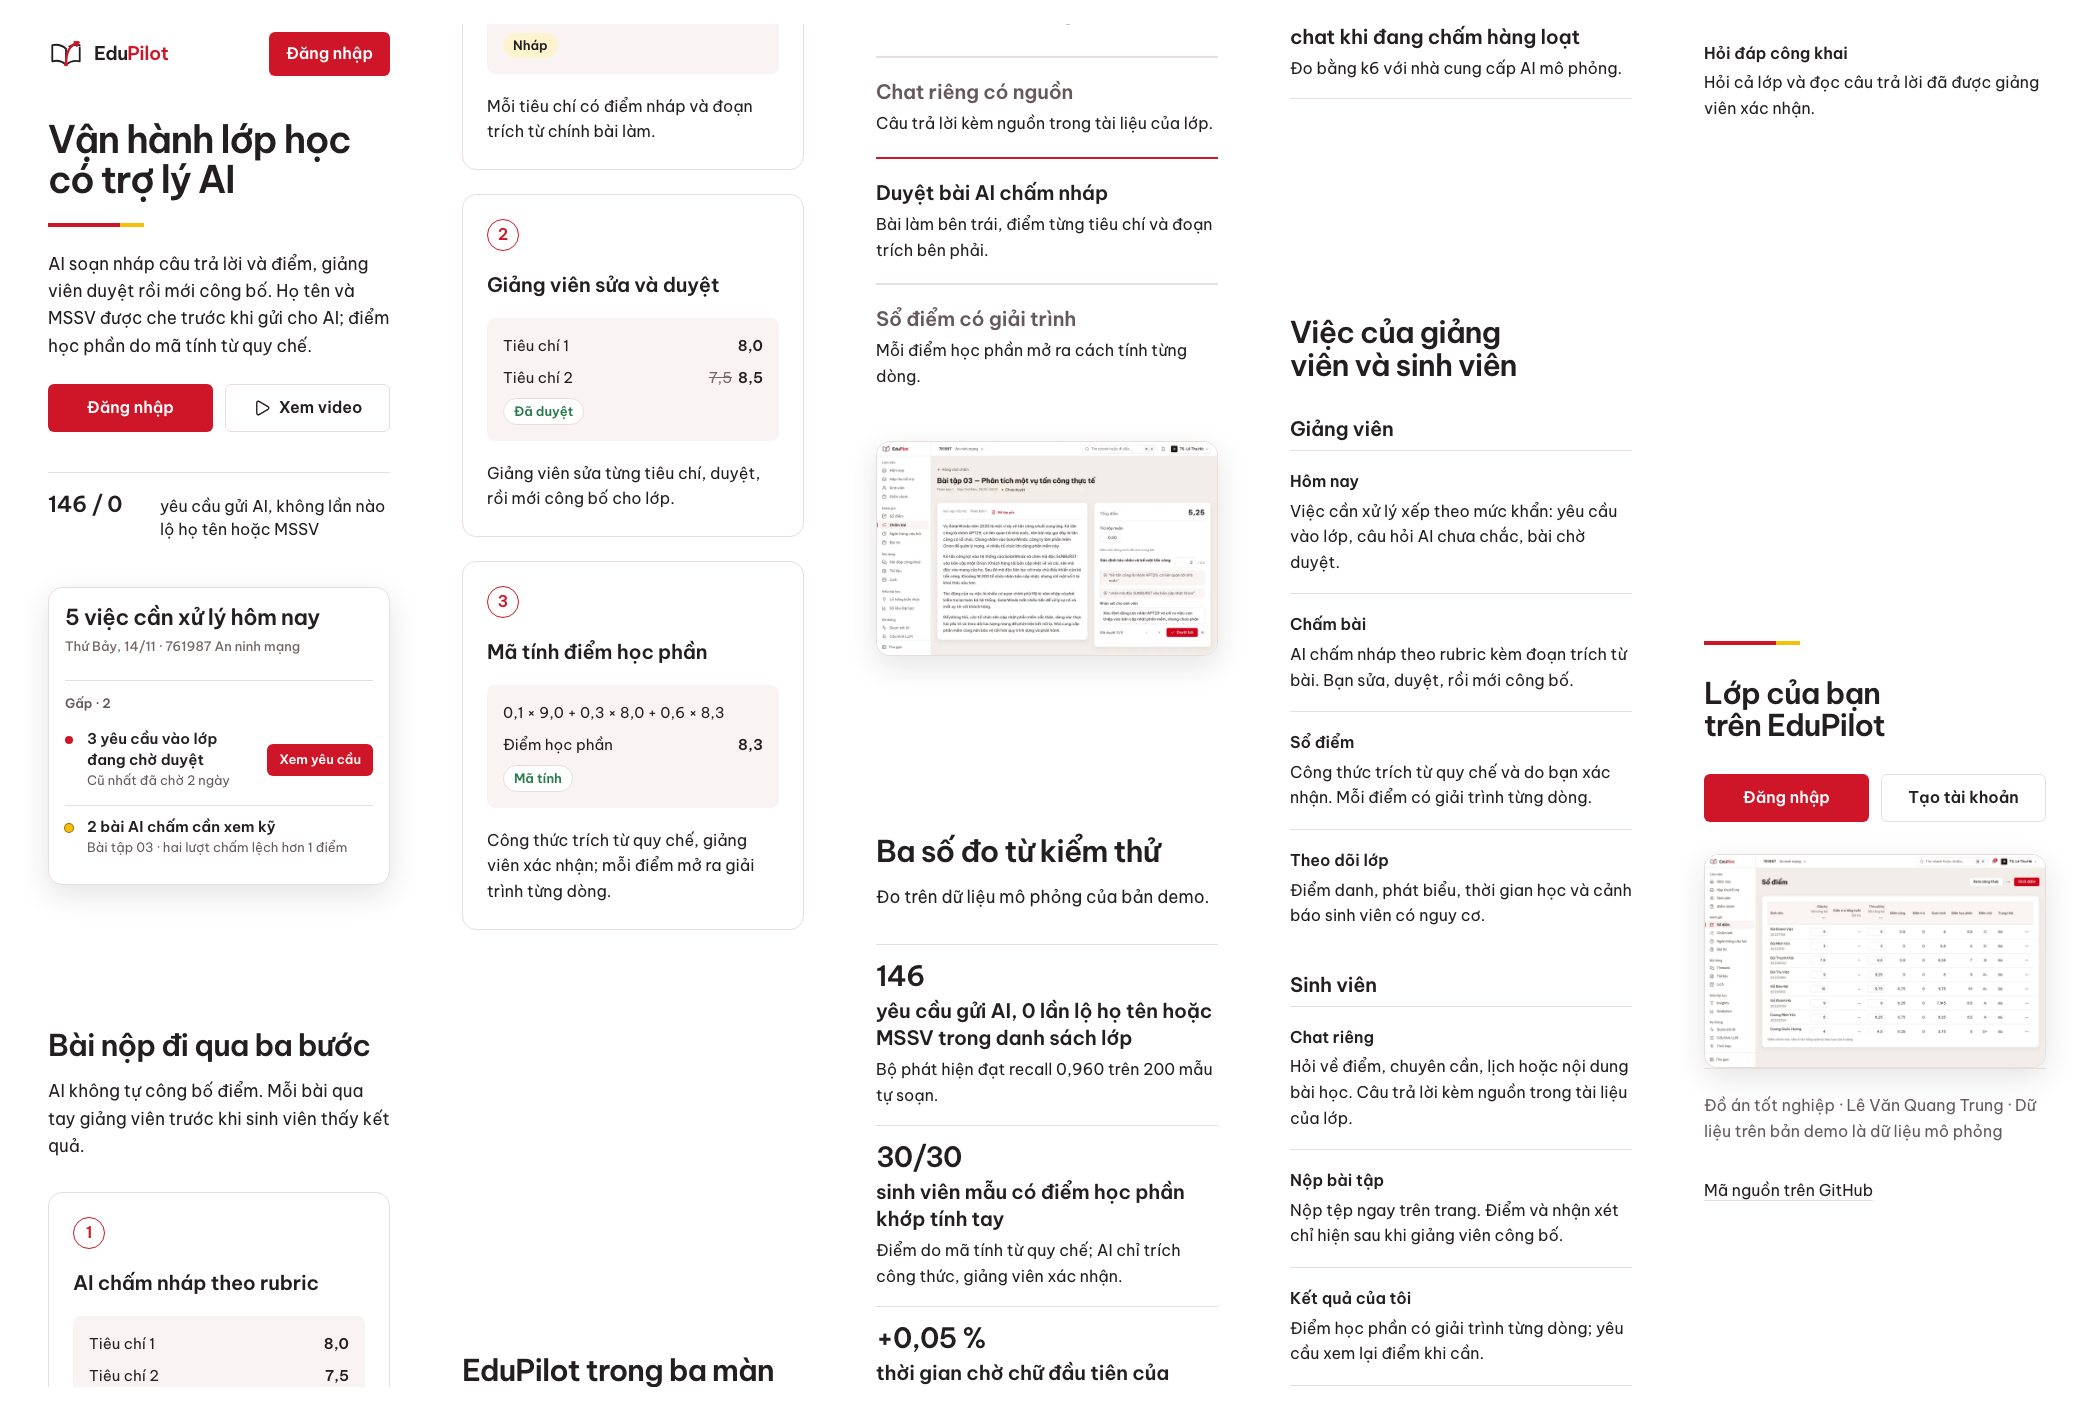
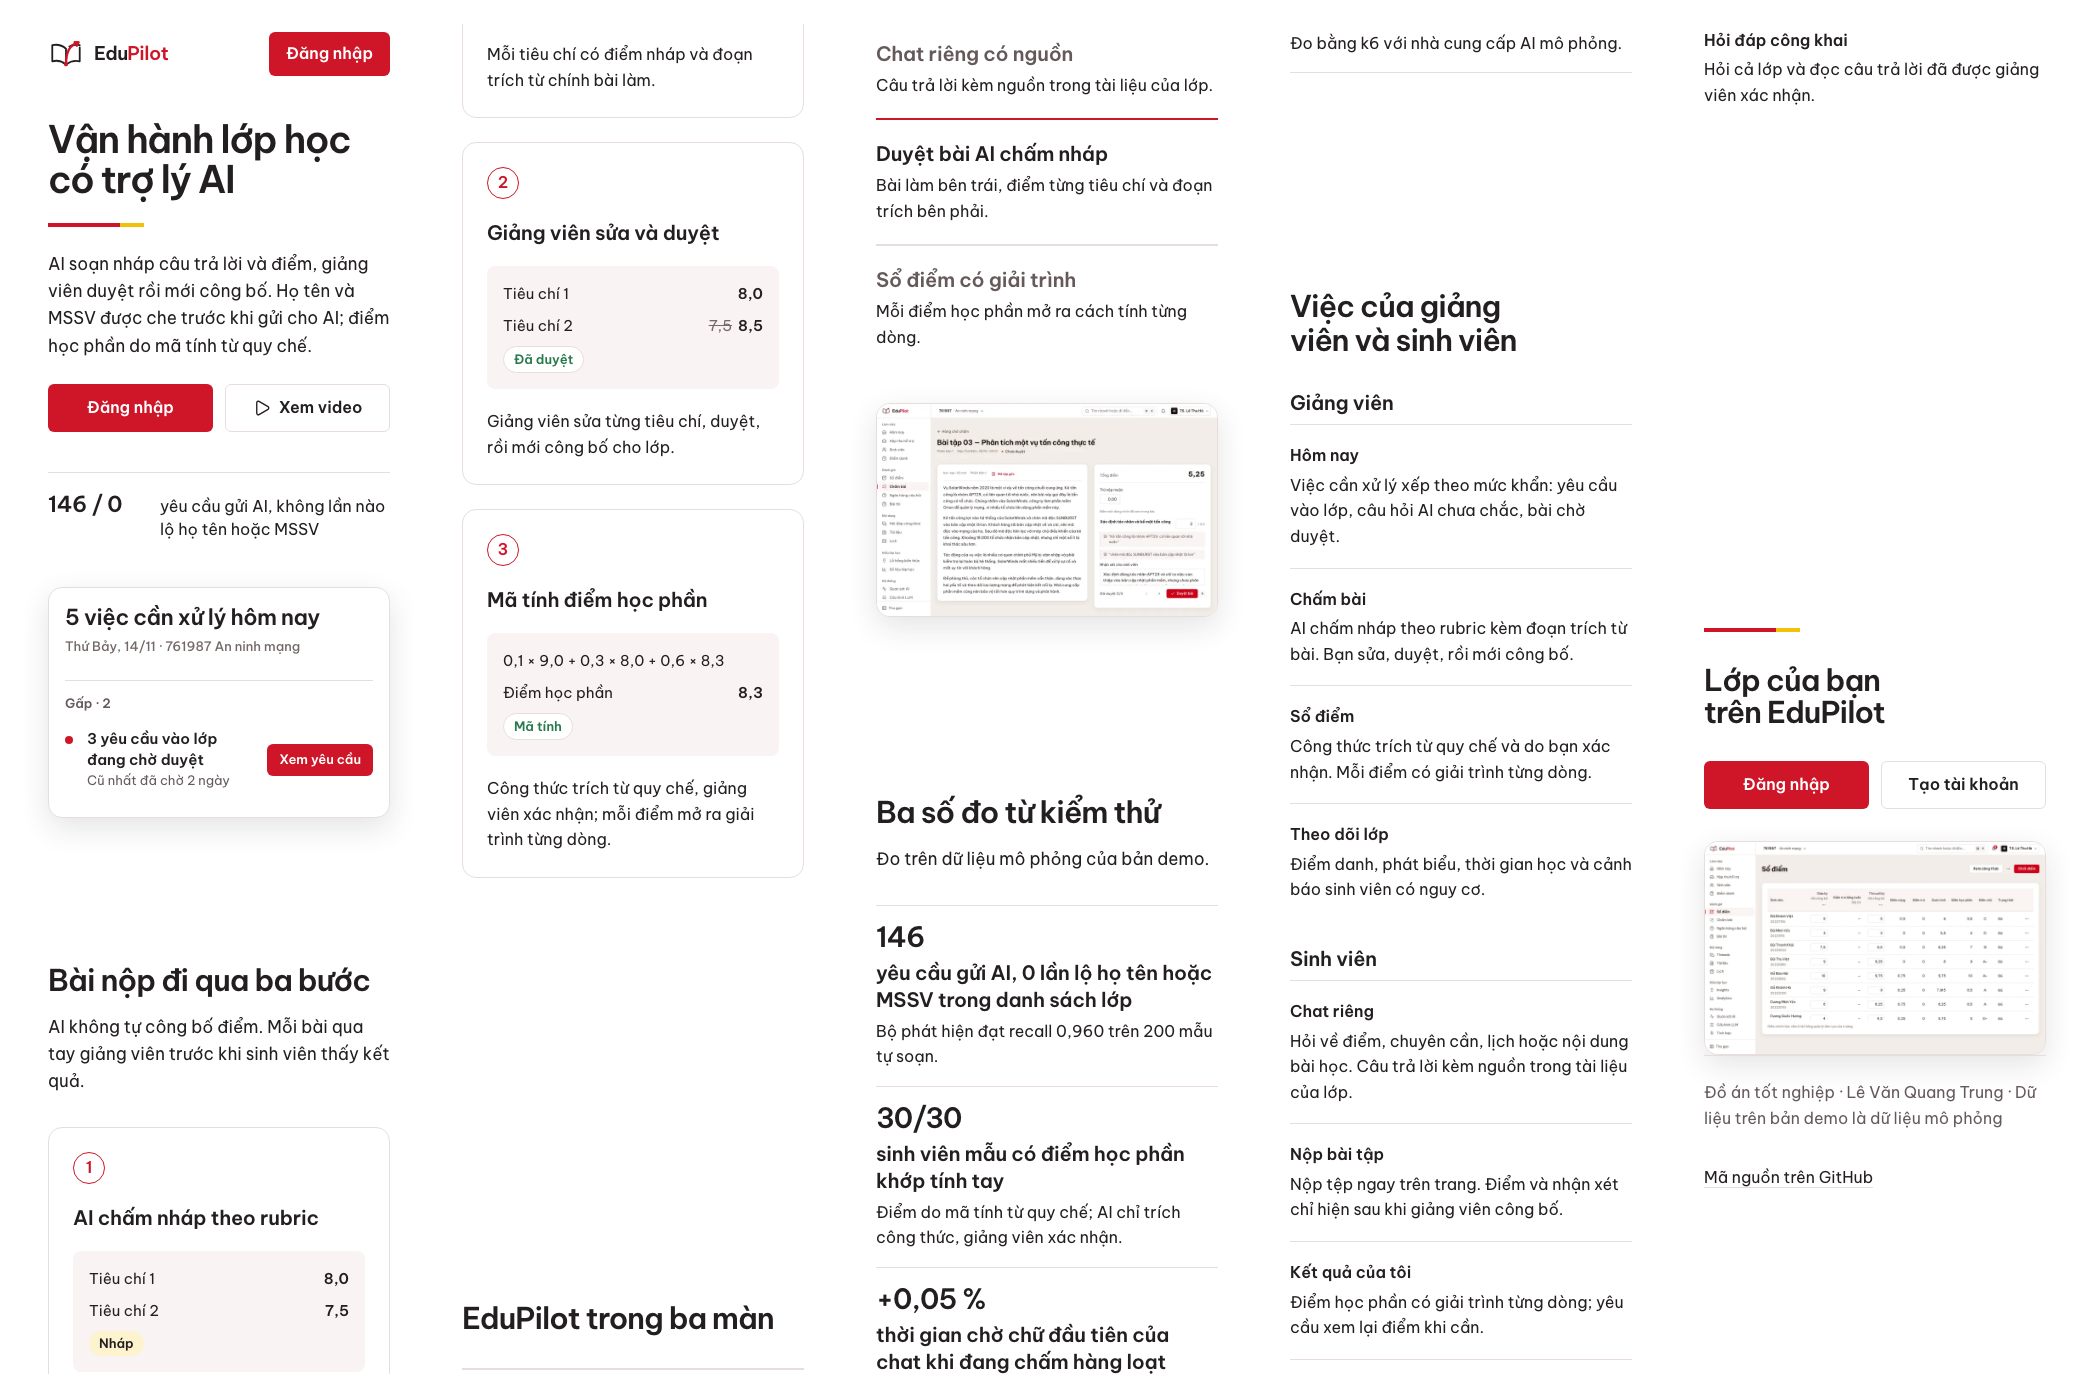
10.7 TL-1: trang giới thiệu — mẫu cuối + kết quả bộ kiểm (42 → 11 FAIL), mục 8.3

diff --git a/docs/sprints/10.7/mau/landing.html b/docs/sprints/10.7/mau/landing.html
@@ -37,7 +37,7 @@ body { margin: 0; font-size: 1rem; line-height: 1.6; }
 h1, h2, h3, p, dl, dd, ol, ul { margin: 0; padding: 0; } ol, ul { list-style: none; } img, svg { display: block; max-width: 100%; } a { color: inherit; text-decoration: none; } button { font: inherit; cursor: pointer; }
 .ic { width: 18px; height: 18px; fill: none; stroke: currentColor; stroke-width: 1.8; stroke-linecap: round; stroke-linejoin: round; flex: none; }
 :focus-visible { outline: 2px solid var(--ep-red); outline-offset: 3px; border-radius: var(--ep-radius-sm); }
-.skip { position: absolute; left: 8px; top: 8px; z-index: 50; padding: 8px 12px; background: var(--ep-ink); color: var(--ep-surface); border-radius: var(--ep-radius-sm); transform: translateY(-200%); }
+.skip { position: absolute; left: 0; top: 14px; z-index: 50; padding: 8px 12px; background: var(--ep-ink); color: var(--ep-surface); border-radius: var(--ep-radius-sm); transform: translateY(-300%); }
 .skip:focus { transform: none; }
 
 /* một khung chứa cho thanh trên, mọi mục và chân trang: mép 80 → 1360 ở 1440 */
@@ -84,7 +84,7 @@ main > section, footer.closing { height: 100svh; min-height: 820px; padding: var
 .chip { display: inline-flex; align-items: center; gap: 6px; min-height: 32px; padding: 0 12px; border-radius: var(--ep-radius-sm); font-size: .8125rem; font-weight: 600; white-space: nowrap; }
 .chip--primary { background: var(--ep-red); color: var(--ep-surface); } .chip--ghost { color: var(--ep-ink); } .chip .ic { width: 14px; height: 14px; }
 .facts { display: grid; margin-top: 16px; }
-.fact { display: grid; grid-template-columns: 124px minmax(0, 1fr); column-gap: 16px; align-items: baseline; padding: 14px 0; border-top: 1px solid var(--ep-rule); } .fact:last-child { border-bottom: 1px solid var(--ep-rule); }
+.fact { display: grid; grid-template-columns: 133px minmax(0, 1fr); column-gap: 16px; align-items: baseline; padding: 14px 0; border-top: 1px solid var(--ep-rule); } .fact:last-child { border-bottom: 1px solid var(--ep-rule); }
 .fact b { font-size: 1.75rem; font-weight: 600; letter-spacing: -0.02em; font-variant-numeric: tabular-nums; white-space: nowrap; } .fact span { line-height: 1.45; }
 
 /* ---------- 2. ba bước của một bài nộp ---------- */
@@ -148,7 +148,7 @@ footer.closing .wrap { height: 100%; display: grid; grid-template-rows: 1fr auto
   .actions .btn { flex: 1; }
   .fact { grid-template-columns: 96px minmax(0, 1fr); } .fact b { font-size: 1.375rem; }
   /* màn đầu vừa đúng một màn điện thoại: một dữ kiện, nhóm việc đầu tiên */
-  .fact:nth-child(n+2), .app > :nth-child(n+6) { display: none; }
+  .fact:nth-child(n+2), .app > :nth-child(n+5) { display: none; }
   #bai-nop, #vai { min-height: 200svh; }
   .card { padding: 24px; }
   .stat { grid-template-columns: 1fr; row-gap: 6px; padding: 16px 0; } .stat__num, .stat__what, .stat__how { grid-column: 1; } .stat__num { font-size: 1.75rem; }
@@ -164,8 +164,8 @@ footer.closing .wrap { height: 100%; display: grid; grid-template-rows: 1fr auto
 </defs></svg>
 
 <header class="nav">
-  <a class="skip" href="#main">Tới nội dung</a>
   <div class="wrap">
+    <a class="skip" href="#main">Tới nội dung</a>
     <a href="#top" aria-label="EduPilot"><svg class="logo" width="188" height="40" viewBox="0 0 188 40" fill="none" xmlns="http://www.w3.org/2000/svg">
   <title>EduPilot</title>
   <g>

diff --git a/docs/sprints/10.7/techlead.md b/docs/sprints/10.7/techlead.md
@@ -311,11 +311,31 @@ Giữ nguyên, không đụng: mọi con số và câu nguồn (146, 30/30, +0,0
 
 Ba chỗ mẫu **đổi lời** so với trang hiện tại, cần chủ dự án gật vì đây là câu chữ đã nghiệm thu ở 9.1 (`FEAT-uiux-91` US-08): `h1` rút gọn; sáu tiêu đề mục đổi tên; dòng «Ví dụ minh hoạ, số liệu mẫu.» dưới ba bước bị bỏ (skill cấm ghi chú «mẫu»; ba thẻ đó là minh hoạ giao diện, không phải số đo).
 
-Kết quả bộ kiểm trên mẫu: xem TL-1 mục 8.3.
-
 ### 8.3 Bộ kiểm chạy trên mẫu
 
-(điền sau khi lượt chạy cuối xong)
+Cùng lệnh với 8.1, chạy trên `mau/landing.html`, 1440 và 390, ngày 2026-11-14. Mẫu được sửa qua ba lượt chạy (42 → 22 → 11 FAIL).
+
+| Công cụ | Trang hiện tại | Mẫu |
+| --- | --- | --- |
+| `consistency.mjs` | 42 FAIL, 20 WARN | **11 FAIL, 25 WARN** |
+| `copy-lint.mjs` | 0 FAIL, 0 WARN | 0 FAIL, 0 WARN |
+| `perf.mjs` | 2 FAIL, 6 WARN | 2 FAIL, 4 WARN |
+
+Đã hết trên mẫu: `container-edges`, `hero-screen`, `section-height`, `copy-fact`, `focus-visible`, `focus-ring`, `scroll-linked` (bản tĩnh không có chuyển động theo cuộn), `loop-pause` (bản tĩnh không có phim).
+
+11 FAIL còn lại, không giấu:
+
+| Mã | Số | Vì sao còn | Xử lý ở lô 9 |
+| --- | --- | --- | --- |
+| `no-visual` | 5 | Hai mục «Ba số đo từ kiểm thử» và «Việc của giảng viên và sinh viên» chỉ có chữ. Lỗi **thật** | Mục vai: thêm ảnh thật của «Hôm nay» giảng viên và sinh viên (đã có ở `frontend/public/landing/`). Mục số đo: gộp ba số vào mục «Bài nộp đi qua ba bước» (mỗi bước mang số đo của nó) hoặc giữ và chấp nhận, chủ dự án chọn khi xem mẫu |
+| `links` | 3 | Mẫu tĩnh: `#register`, `#video` không có đích | Tự hết khi nối `/register` và hộp thoại video thật |
+| `section-gaps` | 2 | Ở 390 hai mục dài được đặt cao đúng hai màn nên dư khoảng trống cuối mục | Cắt lời hoặc chia mục để mỗi mục vừa một màn điện thoại |
+| `one-heading` | 1 | Ở 390 con số «30/30» (28 px) bị tính là tiêu đề thứ hai trong 5,8 % vị trí cuộn (ngưỡng 5 %) | Hạ cỡ số ở điện thoại xuống 24 px |
+| `copy-headings` | 1 | **Do công cụ**: bộ kiểm so tiêu đề với danh sách danh từ tiếng Anh và tên sản phẩm; tiêu đề tiếng Việt không chứa «EduPilot» đều bị đánh (đọc ở `consistency.mjs` dòng 9417–9422) | Không sửa; ghi miễn trừ có lý do |
+
+`perf.mjs` 2 FAIL đều là «8 tệp phông» (ngưỡng của skill là 4). Phông tự host qua `next/font`, subset latin + vietnamese, ≤ 3 độ đậm là điều kiện PM đã nhận ở góp ý #14 sprint 5 (`FEAT-ui-foundation` v1.5); không đổi.
+
+Bộ kiểm bố cục `assets/layout/check.mjs` và cổng `gate.mjs` của skill chưa chạy trên mẫu: chúng đòi trang dựng từ `starter.html` và bộ CSS của skill (xem P-107-9).
 
 ## 9. Rủi ro và cách lùi
 

diff --git a/docs/sprints/10.7/mau/palette.md b/docs/sprints/10.7/mau/palette.md
@@ -94,5 +94,6 @@ Kiểm bằng máy: xem luật 31 ở `techlead.md` TL-1 mục 4 (cấm `color: 
 | `mau-1.html` | «Hôm nay» giảng viên, 1440 × 900 | `sau-web.png` |
 | `mau-app.html` | App điện thoại sinh viên, điểm danh bằng mã QR (sprint 10.8), 390 × 844 | `sau-app.png` |
 | `khung-trang.html` | Ba màn khung × bốn trạng thái (`?m=work\|read\|split&s=data\|empty\|filtered\|loading\|error`) | `khung/*.png` |
+| `landing.html` | Trang giới thiệu (chưa đăng nhập), sáu mục mỗi mục một màn | `landing-man-dau-1440.png`, `landing-1440.png`, `landing-390.png`; hiện trạng: `landing-truoc-720.png` |
 
-Cả ba là HTML tĩnh tự chứa (phông tải từ Google Fonts), không phải mã sản phẩm.
+Cả bốn là HTML tĩnh tự chứa (phông tải từ Google Fonts), nền trang trắng, không phải mã sản phẩm.
